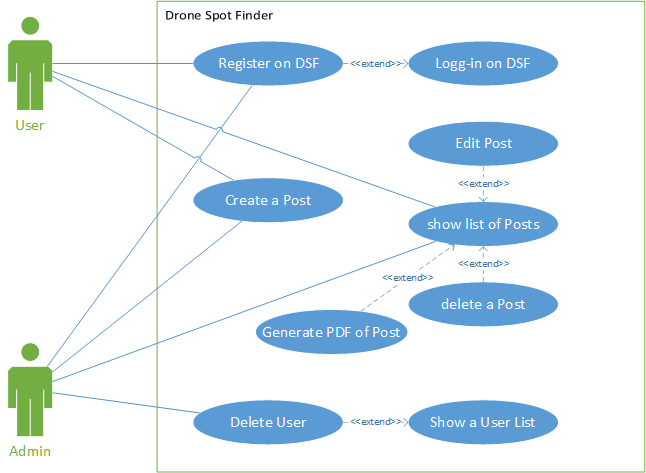
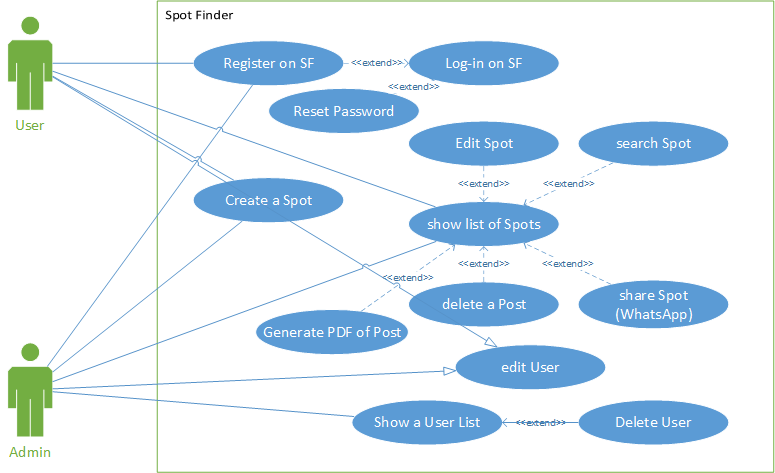
update readme + diagrams

diff --git a/README.md b/README.md
@@ -1,4 +1,4 @@
-# Drone Spot Finder / Web-Engineering Project@FHNW
+# Spot Finder / Web-Engineering Project@FHNW
 
 - [Analysis](#analysis)
     - [Scenario](#scenario)
@@ -11,56 +11,60 @@
 ## Analysis
 
 ### Scenario
-Drone Spot Finder is a student project of Martin Peraic and Philipp Labhart. 
-The web application allows users to add, edit and extract drone spots. Additionally a user management, blog post management is embedded.
-Each registered User has the possibility to add a spot by creating a spot post. He is able to mark the position of the drone with the help 
-of Google Maps. Further, he can submit some more information by comments. The user is able to view a list of all submited spots. A possibility 
-to delete (only submitted by this user) or extract (out of all submitted spots)the post is possible (PDF generated).
+Drone Spot Finder is a student project by Martin Peraic and Philipp Labhart. 
+The web application allows users to add, edit and extract drone spots from an interactive map. Additionally a simple user management and spot post management is implemented.
+Each registered user has the ability to add a spot. A user can mark the position of the located spot with the help 
+of implemented Google Maps features. Further, he can submit some more information by additional input (e.g. Category, Comment, Name). 
+The user is able to view a list of all submitted spots when entering the page. A possibility to search, edit,
+delete (only posts submitted by this user except he is an admin) or share(WhatsApp) or extract the post(PDF generated).
 
 
 ### Use Case
 
-![](modelling/images/UseCaseDSF.png)
+![](design/UseCaseDSF.png)
 
 - UC-1 [Login on Drone Spot Finder]: Users or Admins can log-in by entering an email address and password. As an extension, new user may register first.
-- UC-2 [Register on WE-CRM]: User can register to get an account (profile) to access the Drone Spot Finder system.
-- UC-3 [Create Post]:  Users are able create spots post, by submitting the location and additional comments.
-- UC-4 [Show a post list]: Users can view a list of all spots submitted.
+- UC-2 [Register on WE-CRM]: User can register to get an account (profile) to access the Spot Finder system.
+- UC-3 [Create Spot]:  Users are able to create new spots post, by submitting the location and additional inputs.
+- UC-4 [Show a list of Spots]: Users can view a list of all spots submitted.
 - UC-5 [Edit a Post]: Each user is able to edit it's own posts.
-- UC-6 [Delete a Post]: Each user is able to delete it's own posts.
-- UC-7 [Generate a PDF of Spot Post]: Each user to pull the spot information. All information of the post is converted into a PDF File, which can be downloaded.
-- UC-8 [Delete User]: Admins are able to delete users.
-- UC-9 [Show User List]: Admins can view a list of all registered Users.
+- UC-6 [Delete a Spot]: Each user is able to delete it's own posts.
+- UC-7 [Search Spot]:  Users are able to search for spots, by submitting the location address into the search input on the spot list.
+- UC-8 [Share Post]:  Users are able to share spots by clicking the WhatsApp button.
+- UC-9 [Generate a PDF of Spot Post]: Each user can  pull the selected spot information. All information of the spot is converted into a PDF File, which can be downloaded.
+- UC-10 [Delete User]: Admins are able to delete users.
+- UC-11 [Show User List]: Admins can view a list of all registered Users.
+- UC-11 [Edit User]: Admins and user can edit his or all user profiles.
+- UC-12 [elevate User]: the first registered users and further on all admins have the possibility to elevate to higher access rights.
+- UC-13 [Reset Password by Mail]: As stated, registered users can reset the login password by mail (located on login screen)
 
 ## Design
 
 ### ProtoType 
+We first created a draft version with the help of bootstrap studio, which was later updated to the productive version.
+#### User Management (basics)
+![](design//register.jpg)
+![](design//list_User.jpg)
 
-#### User Management
-
-![](modelling/images/login.jpg)
-![](modelling/images/register.jpg)
-![](modelling/images/editUser.jpg)
-![](modelling/images/list_User.jpg)
+## Database / PostgreSQL
+![](design//SpotFinderERD.jpg)
 
 ### Information Systems (Layering) Architecture
 
 ![](modelling/images/WE-CRM-Layering-Structure.png)
 
 
-## Tools
-
-#### Git
-The project contains a .gitignore file to keep certain 
-
+## Tools used
+##### Visual Paradigm 
+##### Bootstrap Studio
+##### PHPStorm
+##### Git
+##### PostgreSQL 11
+##### XAMPP
+The project contains a .gitignore file to keep certain API Keys out of version control.
 ### Heroku Deployment
-
 [![Deploy](https://www.herokucdn.com/deploy/button.png)](https://heroku.com/deploy)
-
 ## Maintainer
-
 - [Martin Peraic & Philipp Labhart]
-
 ## License
-
 - [Apache License, Version 2.0](LICENSE)
